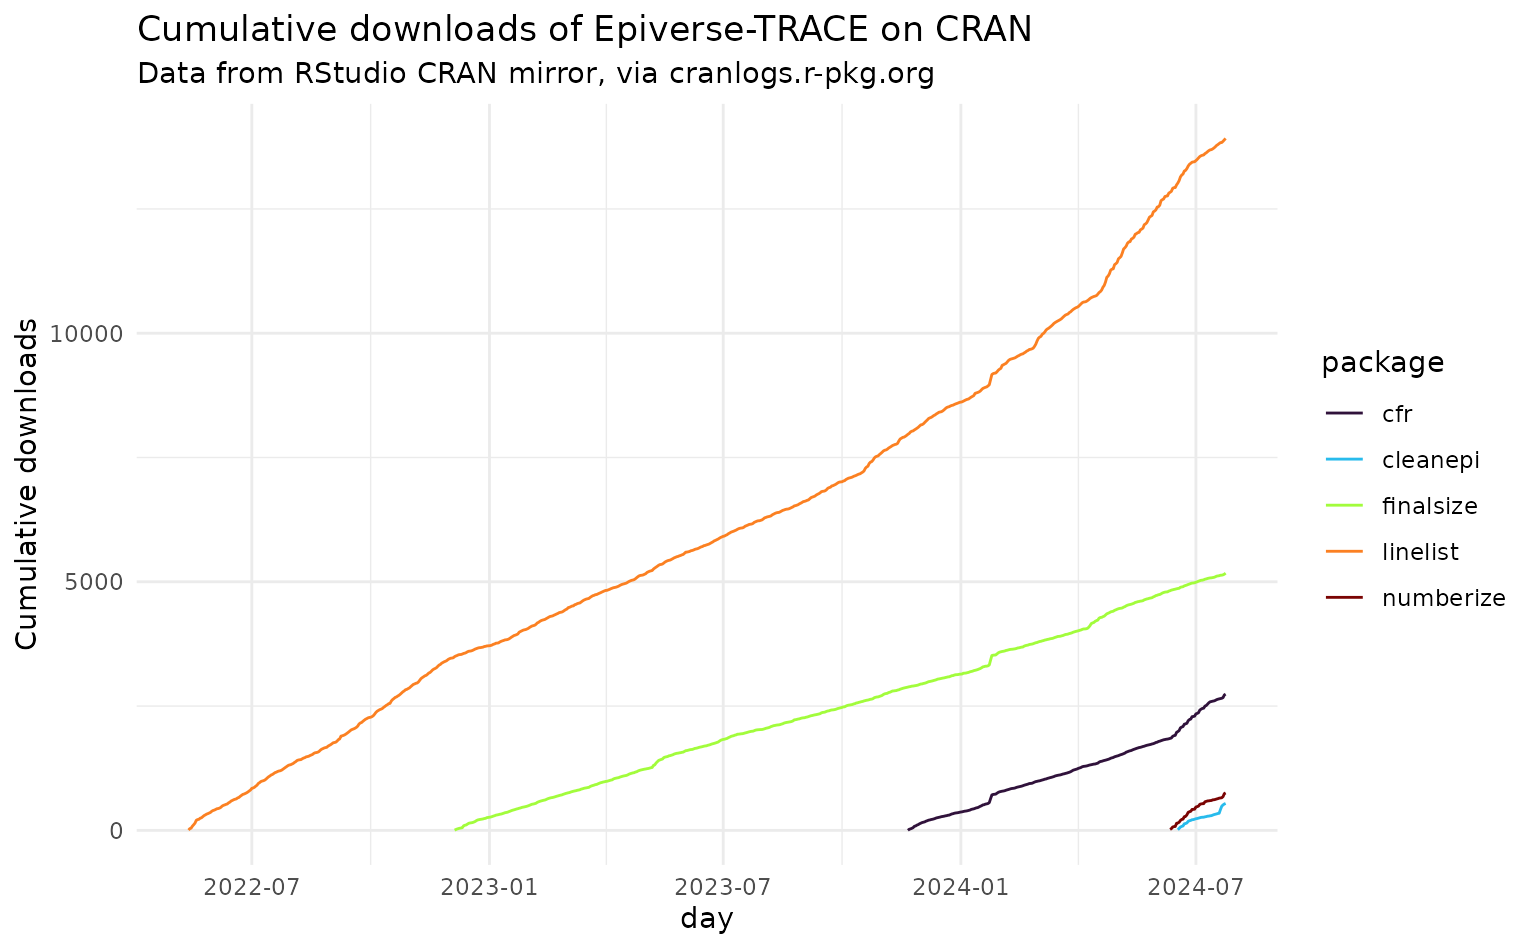
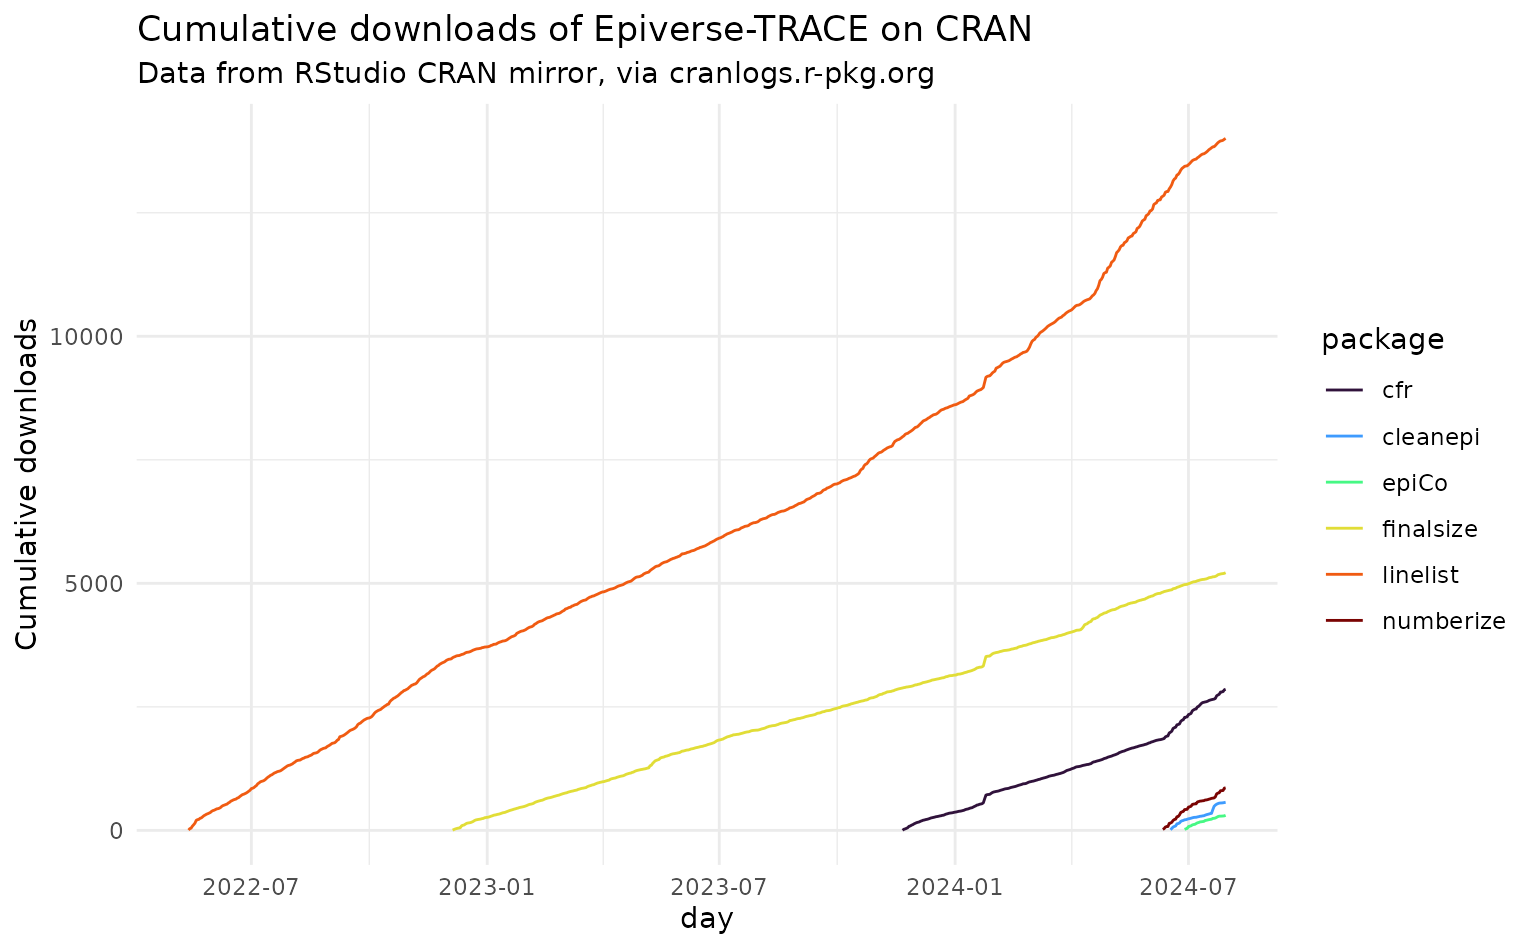
Deploying to gh-pages from @ epiverse-trace/etstats@75622b7549b34fc0110cc03bbc11d21614922f35 🚀

diff --git a/articles/cran-statistics.html b/articles/cran-statistics.html
@@ -74,7 +74,7 @@
 
       <h1>CRAN statistics</h1>
             
-            <h4 data-toc-skip class="date">2024-07-26</h4>
+            <h4 data-toc-skip class="date">2024-08-01</h4>
       
       <small class="dont-index">Source: <a href="https://github.com/epiverse-trace/etstats/blob/main/vignettes/cran-statistics.Rmd" class="external-link"><code>vignettes/cran-statistics.Rmd</code></a></small>
       <div class="d-none name"><code>cran-statistics.Rmd</code></div>
@@ -82,19 +82,20 @@
 
     
     
-<p>We currently have 5 Epiverse-TRACE packages on CRAN:</p>
+<p>We currently have 6 Epiverse-TRACE packages on CRAN:</p>
 <ul>
+<li><a href="https://cran.r-project.org/package=epiCo" class="external-link">epiCo</a></li>
 <li><a href="https://cran.r-project.org/package=cleanepi" class="external-link">cleanepi</a></li>
 <li><a href="https://cran.r-project.org/package=cfr" class="external-link">cfr</a></li>
 <li><a href="https://cran.r-project.org/package=linelist" class="external-link">linelist</a></li>
 <li><a href="https://cran.r-project.org/package=finalsize" class="external-link">finalsize</a></li>
 <li><a href="https://cran.r-project.org/package=numberize" class="external-link">numberize</a></li>
 </ul>
-<p>In total, Epiverse-TRACE packages on CRAN have been downloaded 23128
+<p>In total, Epiverse-TRACE packages on CRAN have been downloaded 23809
 times.</p>
 <p>Below is a visualization of the breakdown of this grand total by
 package over time.</p>
-<p><img src="cran-statistics_files/figure-html/unnamed-chunk-6-1.png" alt="Cumulative downloads of Epiverse-TRACE on CRAN (cleanepi, cfr, linelist, finalsize, numberize)" width="768"></p>
+<p><img src="cran-statistics_files/figure-html/unnamed-chunk-6-1.png" alt="Cumulative downloads of Epiverse-TRACE on CRAN (epiCo, cleanepi, cfr, linelist, finalsize, numberize)" width="768"></p>
 <table class="table">
 <thead><tr class="header">
 <th align="left">package</th>
@@ -107,37 +108,43 @@ package over time.</p>
 <td align="left">finalsize</td>
 <td align="right">260</td>
 <td align="right">2881</td>
-<td align="right">2033</td>
+<td align="right">2074</td>
 </tr>
 <tr class="even">
 <td align="left">linelist</td>
 <td align="right">3712</td>
 <td align="right">4898</td>
-<td align="right">5308</td>
+<td align="right">5394</td>
 </tr>
 <tr class="odd">
 <td align="left">cfr</td>
 <td align="right">NA</td>
 <td align="right">364</td>
-<td align="right">2376</td>
+<td align="right">2492</td>
 </tr>
 <tr class="even">
 <td align="left">cleanepi</td>
 <td align="right">NA</td>
 <td align="right">NA</td>
-<td align="right">542</td>
+<td align="right">568</td>
 </tr>
 <tr class="odd">
+<td align="left">epiCo</td>
+<td align="right">NA</td>
+<td align="right">NA</td>
+<td align="right">305</td>
+</tr>
+<tr class="even">
 <td align="left">numberize</td>
 <td align="right">NA</td>
 <td align="right">NA</td>
-<td align="right">754</td>
+<td align="right">861</td>
 </tr>
-<tr class="even">
+<tr class="odd">
 <td align="left">Total</td>
 <td align="right">3972</td>
 <td align="right">8143</td>
-<td align="right">11013</td>
+<td align="right">11694</td>
 </tr>
 </tbody>
 </table></main>

diff --git a/articles/github-statistics.html b/articles/github-statistics.html
@@ -74,7 +74,7 @@
 
       <h1>GitHub statistics</h1>
             
-            <h4 data-toc-skip class="date">2024-07-26</h4>
+            <h4 data-toc-skip class="date">2024-08-01</h4>
       
       <small class="dont-index">Source: <a href="https://github.com/epiverse-trace/etstats/blob/main/vignettes/github-statistics.Rmd" class="external-link"><code>vignettes/github-statistics.Rmd</code></a></small>
       <div class="d-none name"><code>github-statistics.Rmd</code></div>
@@ -85,7 +85,7 @@
 <div class="section level2">
 <h2 id="github-followers">GitHub followers<a class="anchor" aria-label="anchor" href="#github-followers"></a>
 </h2>
-<p>Our Epiverse-TRACE GitHub organization currently has 144
+<p>Our Epiverse-TRACE GitHub organization currently has 148
 followers.</p>
 </div>
 <div class="section level2">
@@ -94,7 +94,7 @@ followers.</p>
 <div class="section level3">
 <h3 id="totals">Totals<a class="anchor" aria-label="anchor" href="#totals"></a>
 </h3>
-<p>In total, we have 189 stars across all Epiverse-TRACE packages. These
+<p>In total, we have 190 stars across all Epiverse-TRACE packages. These
 stars come from 112 unique users.</p>
 <p><img src="github-statistics_files/figure-html/unnamed-chunk-5-1.png" width="768"></p>
 </div>
@@ -120,7 +120,7 @@ stars come from 112 unique users.</p>
 <td align="left">epiparameter</td>
 <td align="right">8</td>
 <td align="right">9</td>
-<td align="right">9</td>
+<td align="right">10</td>
 </tr>
 <tr class="odd">
 <td align="left">epiverse-trace.r-universe.dev</td>
@@ -264,7 +264,7 @@ stars come from 112 unique users.</p>
 <td align="left">Total</td>
 <td align="right">24</td>
 <td align="right">89</td>
-<td align="right">76</td>
+<td align="right">77</td>
 </tr>
 </tbody>
 </table>
